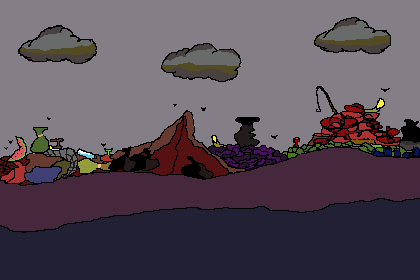
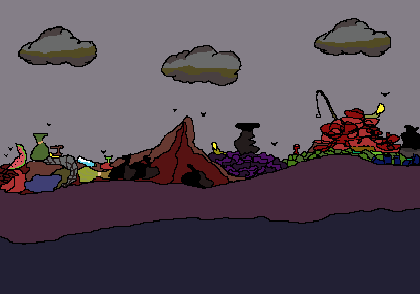
adding tilemap stuff

diff --git a/src/scenes/Level1.js b/src/scenes/Level1.js
@@ -38,145 +38,17 @@ class Level1 extends Phaser.Scene {
         // we can add that later, this is just temporary)
         this.cameras.main.startFollow(this.cat);
 
-        // this sets up the ground (again, this will change when the obstacles are implemented and we have an actual tile
-        // sheet to pull these from)
-        this.ground = this.add.group();
-        this.tileSize = 21;
-        for(let i = 0; i < (game.config.width*2 + game.config.width/4); i += this.tileSize) {
-            let groundTile = this.physics.add.sprite(i, game.config.height - this.tileSize, 'platform_tile', 0).setOrigin(0);
-            groundTile.body.immovable = true;
-            groundTile.body.allowGravity = false;
-            this.ground.add(groundTile);
-        }
-        for (let i = (game.config.width*3 - (game.config.width/3)); i < (game.config.width*4); i += this.tileSize) {
-            let groundTile = this.physics.add.sprite(i, game.config.height - this.tileSize, 'platform_tile', 0).setOrigin(0);
-            groundTile.body.immovable = true;
-            groundTile.body.allowGravity = false;
-            this.ground.add(groundTile);
-        }
-        for (let i = game.config.width*4 + (game.config.width*(1/4)); i < (game.config.width*4 + (game.config.width*(3/4))); i += this.tileSize) {
-            let groundTile = this.physics.add.sprite(i, game.config.height - this.tileSize, 'platform_tile', 0).setOrigin(0);
-            groundTile.body.immovable = true;
-            groundTile.body.allowGravity = false;
-            this.ground.add(groundTile);
-        }
-        for (let i = game.config.width*5; i < game.config.width*5.25; i += this.tileSize) {
-            let groundTile = this.physics.add.sprite(i, game.config.height - this.tileSize, 'platform_tile', 0).setOrigin(0);
-            groundTile.body.immovable = true;
-            groundTile.body.allowGravity = false;
-            this.ground.add(groundTile);
-        }
-        for (let i = game.config.width*6; i < game.config.width*7; i += this.tileSize) {
-            let groundTile = this.physics.add.sprite(i, game.config.height - this.tileSize, 'platform_tile', 0).setOrigin(0);
-            groundTile.body.immovable = true;
-            groundTile.body.allowGravity = false;
-            this.ground.add(groundTile);
-        }
-
-        // obstacle set 1
-        // creates 3 platforms (i just put them in same group as ground which i think is fine)
-        for(let i = game.config.width / 4; i < (game.config.width); i += game.config.width / 4) {
-            for (let j = 2; j < 4; j++) {
-                let groundTile = this.physics.add.sprite(i, game.config.height - (this.tileSize*j), 'platform_tile', 0).setOrigin(0);
-                groundTile.body.immovable = true;
-                groundTile.body.allowGravity = false;
-                this.ground.add(groundTile);
-            }
-        }
-
-        // obstacle set 2
-        // three obstacles or varying height
-        let jh = 4;
-        for(let i = game.config.width + (game.config.width / 4); i < (game.config.width*2); i += game.config.width / 4) {
-            if (i == game.config.width + ((game.config.width / 4)*2)) {
-                jh = 6;
-            }
-            else {
-                jh = 4;
-            }
-            for (let j = 2; j < jh; j++) {
-                let groundTile = this.physics.add.sprite(i, game.config.height - (this.tileSize*j), 'platform_tile', 0).setOrigin(0);
-                groundTile.body.immovable = true;
-                groundTile.body.allowGravity = false;
-                this.ground.add(groundTile);
-            }
-        }
-
-        // obstacle set three is that initial gap between platforms
-
-        // obstacle set 4
-        // creates some spikes
-        this.spikeGroup = this.add.group();
-        for(let i = (game.config.width / 4) + game.config.width*3; i < game.config.width * 4; i += game.config.width / 4) {
-            // spike before obstacle
-            let spikeTile = this.physics.add.sprite(i, game.config.height - (this.tileSize), 'spikes', 0).setOrigin(1);
-            spikeTile.body.immovable = true;
-            spikeTile.body.allowGravity = false;
-            this.spikeGroup.add(spikeTile);    
-            // spike after obstacle
-            let spikeTile2 = this.physics.add.sprite(i + this.tileSize*2, game.config.height - (this.tileSize), 'spikes', 0).setOrigin(1);
-            spikeTile2.body.immovable = true;
-            spikeTile2.body.allowGravity = false;
-            this.spikeGroup.add(spikeTile2);    
-        }
-        // three obstacles of varying height
-        jh = 4;
-        for(let i = (game.config.width*3 + (game.config.width / 4)); i < (game.config.width*4); i += game.config.width / 4) {
-            for (let j = 2; j < jh; j++) {
-                let groundTile = this.physics.add.sprite(i, game.config.height - (this.tileSize*j), 'platform_tile', 0).setOrigin(0);
-                groundTile.body.immovable = true;
-                groundTile.body.allowGravity = false;
-                this.ground.add(groundTile);
-            }
-            jh += 2;
-        }
-
-        // obstacle set 5
-        for (let i = game.config.width*4 + (game.config.width*(1/4)); i < (game.config.width*4 + (game.config.width*(3/4))); i += this.tileSize) {
-            let spikeTile = this.physics.add.sprite(i, game.config.height - (this.tileSize), 'spikes', 0).setOrigin(0, 1);
-            spikeTile.body.immovable = true;
-            spikeTile.body.allowGravity = false;
-            this.spikeGroup.add(spikeTile);
-        }
-
-        for (let i = game.config.width*4 + (game.config.width*(3/8)); i < game.config.width*4 + (game.config.width*(5/8)); i += this.tileSize) {
-            let groundTile = this.physics.add.sprite(i, game.config.height - (this.tileSize*4), 'platform_tile', 0).setOrigin(0);
-            groundTile.body.immovable = true;
-            groundTile.body.allowGravity = false;
-            this.ground.add(groundTile);
-        }
-
-        // obstacle set 6
-        let placeSpikes = true; 
-        jh = 4;
-        for(let i = (game.config.width*5.1 + (game.config.width / 4)); i < (game.config.width*5.8); i += game.config.width / 6) {
-            for (let j = 1; j < jh; j++) {
-                let groundTile = this.physics.add.sprite(i, game.config.height - (this.tileSize*(j-1)), 'platform_tile', 0).setOrigin(0);
-                groundTile.body.immovable = true;
-                groundTile.body.allowGravity = false;
-                this.ground.add(groundTile);
-                //places the spikes on top of every other obstacle
-                if (j == jh - 1) {
-                    if (placeSpikes) {
-                        let spikeTile = this.physics.add.sprite(i, game.config.height - (this.tileSize*(j-1)), 'spikes', 0).setOrigin(0, 1);
-                        spikeTile.body.immovable = true;
-                        spikeTile.body.allowGravity = false;
-                        this.spikeGroup.add(spikeTile);
-                        placeSpikes = false;
-                    } else {
-                        placeSpikes = true;
-                    }
-                }
-            }
-            jh += 1;
-        }
-        
-    
-        // sets collider between RoboCat and the ground
-        this.physics.add.collider(this.cat, this.ground);
-
-        //checks if player touches spikes, teleports them back to beginning if they do
-        this.physics.add.collider(this.cat, this.spikeGroup, function(player) {
+        // adding tilemap to game
+        const map = this.make.tilemap({ key: 'lvl1_tilemap' });
+        const tileset = map.addTilesetImage('lvl1_tiles', 'lvl1_tiles');
+        // creating tilemap layers
+        this.groundLayer = map.createStaticLayer('Ground', tileset, 0, 0);
+        this.spikesLayer = map.createStaticLayer('Spikes', tileset, 0, 0);
+        this.groundLayer.setCollisionByExclusion([-1]);
+        this.spikesLayer.setCollisionByExclusion([-1]);
+        // enabling collisions with player
+        this.physics.add.collider(this.cat, this.groundLayer);
+        this.physics.add.collider(this.cat, this.spikesLayer, function(player) {
             player.setVelocity(0);
             player.x = 10;
             player.y = game.config.height - 60;

diff --git a/src/prefabs/RoboCat.js b/src/prefabs/RoboCat.js
@@ -164,12 +164,12 @@ class RoboCat extends Phaser.Physics.Arcade.Sprite {
         if (Phaser.Input.Keyboard.JustDown(keyUP)) {
             this.setGravityY(0);
             //normal jump
-            if (this.body.touching.down && !this.body.touching.left && !this.body.touching.right) {
+            if (this.body.blocked.down && !this.body.blocked.left && !this.body.blocked.right) {
                 isJumping = true;
                 this.setVelocityY(-300);
                 this.canDubJump = true;
             //double jump
-            } else if (hasPropeller && !(this.body.touching.down) && this.canDubJump) {
+            } else if (hasPropeller && !(this.body.blocked.down) && this.canDubJump) {
                 this.setVelocityY(-300);
                 this.canDubJump = false;
                 isJumping = true;
@@ -191,7 +191,7 @@ class RoboCat extends Phaser.Physics.Arcade.Sprite {
         } 
 
         //slow fall effect after double jumping if jump is held
-        if (!(this.isSlowFalling) && !(this.body.touching.down) && keyUP.isDown && !(this.canDubJump) && this.body.velocity.y > 0) {
+        if (!(this.isSlowFalling) && !(this.body.blocked.down) && keyUP.isDown && !(this.canDubJump) && this.body.velocity.y > 0) {
             this.body.velocity.y = this.body.velocity.y / 2;
             this.isSlowFalling = true;
             this.isDoubJumping = true;
@@ -207,15 +207,15 @@ class RoboCat extends Phaser.Physics.Arcade.Sprite {
                 this.setVelocityX(this.body.velocity.x + 15);
             }
             this.setAccelerationX(400);
-            if (this.body.touching.down && !this.body.touching.right) {
+            if (this.body.blocked.down && !this.body.blocked.right) {
                 this.anims.play('robo_run_r', true);
             }
-            else if (!this.body.touching.down && this.body.touching.right) {
+            else if (!this.body.blocked.down && this.body.blocked.right) {
                 // play (right) wall cling animation
                 this.anims.play('robo_cling_r', true);
                 this.texture = 'robo_cling_r';
             }
-            else if (!this.body.touching.down && !this.body.touching.right){
+            else if (!this.body.blocked.down && !this.body.blocked.right){
                 // jump animation
                 if (!this.isDoubJumping) {
                     this.anims.play('robo_jump_r', true);
@@ -230,14 +230,14 @@ class RoboCat extends Phaser.Physics.Arcade.Sprite {
                 this.setVelocityX(this.body.velocity.x - 15);
             }  
             this.setAccelerationX(-400);
-            if (this.body.touching.down && !this.body.touching.left) {
+            if (this.body.blocked.down && !this.body.blocked.left) {
                 this.anims.play('robo_run_l', true);
             }
-            else if (!this.body.touching.down && this.body.touching.left) {
+            else if (!this.body.blocked.down && this.body.blocked.left) {
                 // play (right) wall cling animation
                 this.anims.play('robo_cling_l', true);
             }
-            else if (!this.body.touching.down && !this.body.touching.left){
+            else if (!this.body.blocked.down && !this.body.blocked.left){
                 if (!this.isDoubJumping) {
                     this.anims.play('robo_jump_l', true);
                 }
@@ -248,10 +248,10 @@ class RoboCat extends Phaser.Physics.Arcade.Sprite {
         } else {
             this.setAccelerationX(0);
             if (this.lastDirection == 'r') {
-                if (this.body.touching.down) {
+                if (this.body.blocked.down) {
                     this.anims.play('robo_idle_r', true);
                 }
-                else if (!this.body.touching.down) {
+                else if (!this.body.blocked.down) {
                     if (!this.isDoubJumping) {
                         this.anims.play('robo_jump_r', true);
                     }
@@ -261,10 +261,10 @@ class RoboCat extends Phaser.Physics.Arcade.Sprite {
                 }
             }
             if (this.lastDirection == 'l') {
-                if (this.body.touching.down) {
+                if (this.body.blocked.down) {
                     this.anims.play('robo_idle_l', true);
                 }
-                else if (!this.body.touching.down){
+                else if (!this.body.blocked.down){
                     if (!this.isDoubJumping) {
                         this.anims.play('robo_jump_l', true);
                     }

diff --git a/src/scenes/Load.js b/src/scenes/Load.js
@@ -8,11 +8,11 @@ class Load extends Phaser.Scene {
         this.load.path = 'assets/';
 
         // load image assets
-        // level 1 image assets
-        this.load.image('platform_tile', 'lvl1/platform_tile.png');
-        this.load.image('spikes', 'lvl1/spikes.png');
+        // level 1 image assets and tilemap
+        this.load.image('lvl1_tiles', 'lvl1/lvl1_tiles.png');
+        this.load.tilemapTiledJSON('lvl1_tilemap', 'lvl1/lvl1_map.json');
         this.load.image('lvl1_background', 'lvl1/background_lvl1.png');
-        // level 2 image assets
+        // level 2 image assets and tilemap
         this.load.image('tree_tile_v', 'lvl2/tree_tile_v.png');
         this.load.image('tree_tile_h', 'lvl2/tree_tile_h.png');
 

diff --git a/assets/lvl1/lvl1_tiles.tsx b/assets/lvl1/lvl1_tiles.tsx
@@ -1,0 +1,17 @@
+<?xml version="1.0" encoding="UTF-8"?>
+<tileset version="1.8" tiledversion="1.8.4" name="lvl1_tiles" tilewidth="21" tileheight="21" tilecount="2" columns="2">
+ <editorsettings>
+  <export target="lvl1_tiles.json" format="json"/>
+ </editorsettings>
+ <image source="lvl1_tiles.png" width="42" height="21"/>
+ <tile id="0">
+  <properties>
+   <property name="collides" type="bool" value="true"/>
+  </properties>
+ </tile>
+ <tile id="1">
+  <properties>
+   <property name="collides" type="bool" value="true"/>
+  </properties>
+ </tile>
+</tileset>

diff --git a/src/main.js b/src/main.js
@@ -15,7 +15,7 @@ let config = {
         autoCenter: Phaser.Scale.CENTER_BOTH
     },
     width: 420,
-    height: 280,
+    height: 294,
     scene: [Menu, Load, Level1, Level2],
     physics: {
         default: 'arcade',
